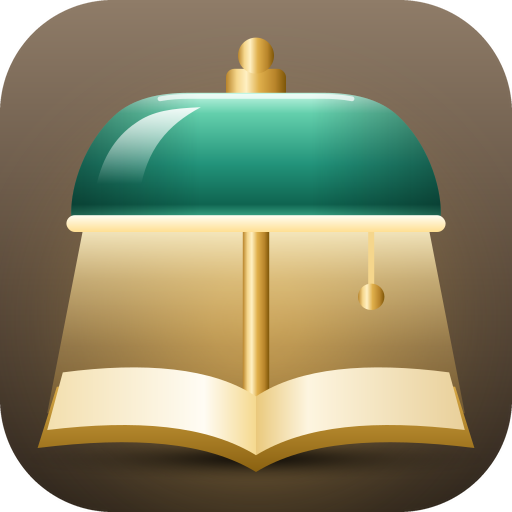
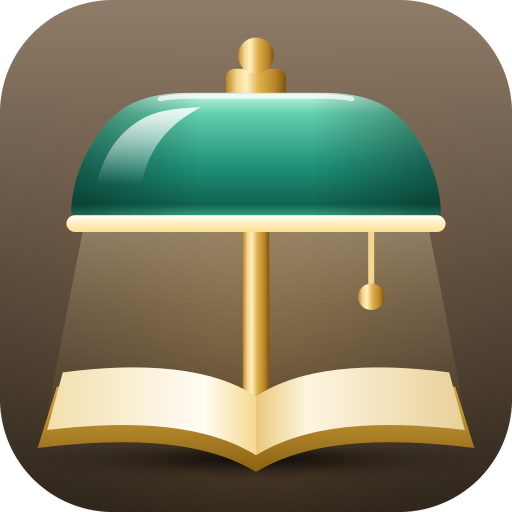
BF-19: Kleine Symbole freigestellt und kontraststark, Lampenlicht nur angedeutet

Changed region(s): [[0.0938, 0.4375, 0.9062, 0.7812]]

diff --git a/frontend/src/lib/schale/Logo.svelte b/frontend/src/lib/schale/Logo.svelte
@@ -1,10 +1,12 @@
 <!-- Das Zeichen der App, wie symbole/tab.svg -->
 <svg aria-hidden="true" viewBox="0 0 64 64">
-<defs><linearGradient id="zeichen-g" x1="0" y1="0" x2="0" y2="1"><stop offset="0" stop-color="#8f7c68"/><stop offset="1" stop-color="#2d241b"/></linearGradient><linearGradient id="zeichen-s" x1="0" y1="0" x2="0" y2="1"><stop offset="0" stop-color="#a4efd4"/><stop offset="1" stop-color="#1f9073"/></linearGradient><linearGradient id="zeichen-l" x1="0" y1="0" x2="0" y2="1"><stop offset="0" stop-color="#ffe9b0" stop-opacity="0.62"/><stop offset="1" stop-color="#f5c766" stop-opacity="0.12"/></linearGradient></defs>
-<rect width="64" height="64" rx="14" fill="url(#zeichen-g)"/>
-<path d="M11 28H53L57 48H7Z" fill="url(#zeichen-l)"/>
-<rect x="29" y="28" width="6" height="20" fill="#e0b04c"/>
-<rect x="28" y="7" width="8" height="5" rx="2" fill="#e0b04c"/>
-<path d="M8 29C8 24 10.500 17 15 13.500C17.500 11.500 20 11 24 11H40C44 11 46.500 11.500 49 13.500C53.500 17 56 24 56 29Z" fill="url(#zeichen-s)"/>
-<path d="M32 46.500C26 42.500 17 42 8.500 43.500L6.500 53C17 51.500 26 52.500 32 56.500C38 52.500 47 51.500 57.500 53L55.500 43.500C47 42 38 42.500 32 46.500Z" fill="#fffaf0"/>
+<defs><linearGradient id="zeichen-s" x1="0" y1="0" x2="0" y2="1"><stop offset="0" stop-color="#5fe0b7"/><stop offset="1" stop-color="#0a7f61"/></linearGradient><linearGradient id="zeichen-b" x1="0" y1="0" x2="1" y2="0"><stop offset="0" stop-color="#ffe9b4"/><stop offset=".5" stop-color="#fffdf6"/><stop offset="1" stop-color="#ffe9b4"/></linearGradient></defs>
+<g stroke="#2a1d10" stroke-width="3.4" stroke-linejoin="round">
+<path d="M29 29H35V50H29Z" fill="#f2b632"/>
+<path d="M27 4H37V11H27Z" fill="#f2b632"/>
+<path d="M32 46C25 41 14 40.500 4.500 42.500L2.500 56C14 54 25 55.500 32 60.500C39 55.500 50 54 61.500 56L59.500 42.500C50 40.500 39 41 32 46Z" fill="url(#zeichen-b)"/>
+<path d="M4 30C4 23 8 15 14.500 11.500C17 10 20 9.500 24 9.500H40C44 9.500 47 10 49.500 11.500C56 15 60 23 60 30Z" fill="url(#zeichen-s)"/>
+</g>
+<path d="M32 46V60" stroke="#2a1d10" stroke-width="2.600"/>
+<path d="M11.500 25C13 20 15.500 16.500 19.500 14.500" fill="none" stroke="#fff" stroke-opacity=".85" stroke-width="3" stroke-linecap="round"/>
 </svg>

diff --git a/tools/symbole.py b/tools/symbole.py
@@ -4,7 +4,7 @@
 Quellen, jede für ihren Zweck gezeichnet:
   symbol.svg       groß, Grund randlos
   maskierbar.svg   Grund randlos, Motiv ganz in der sicheren Zone (Kreis mit 80 % Durchmesser)
-  tab.svg          vereinfacht für kleine Größen, mit eigener runder Platte
+  tab.svg          vereinfacht für kleine Größen, freigestellt und mit kräftigem Rand
   einfarbig.svg    eine Farbe (currentColor)
 Erzeugt in frontend/public:
   symbol.svg                                    Kopie für andere Programme im Haus
